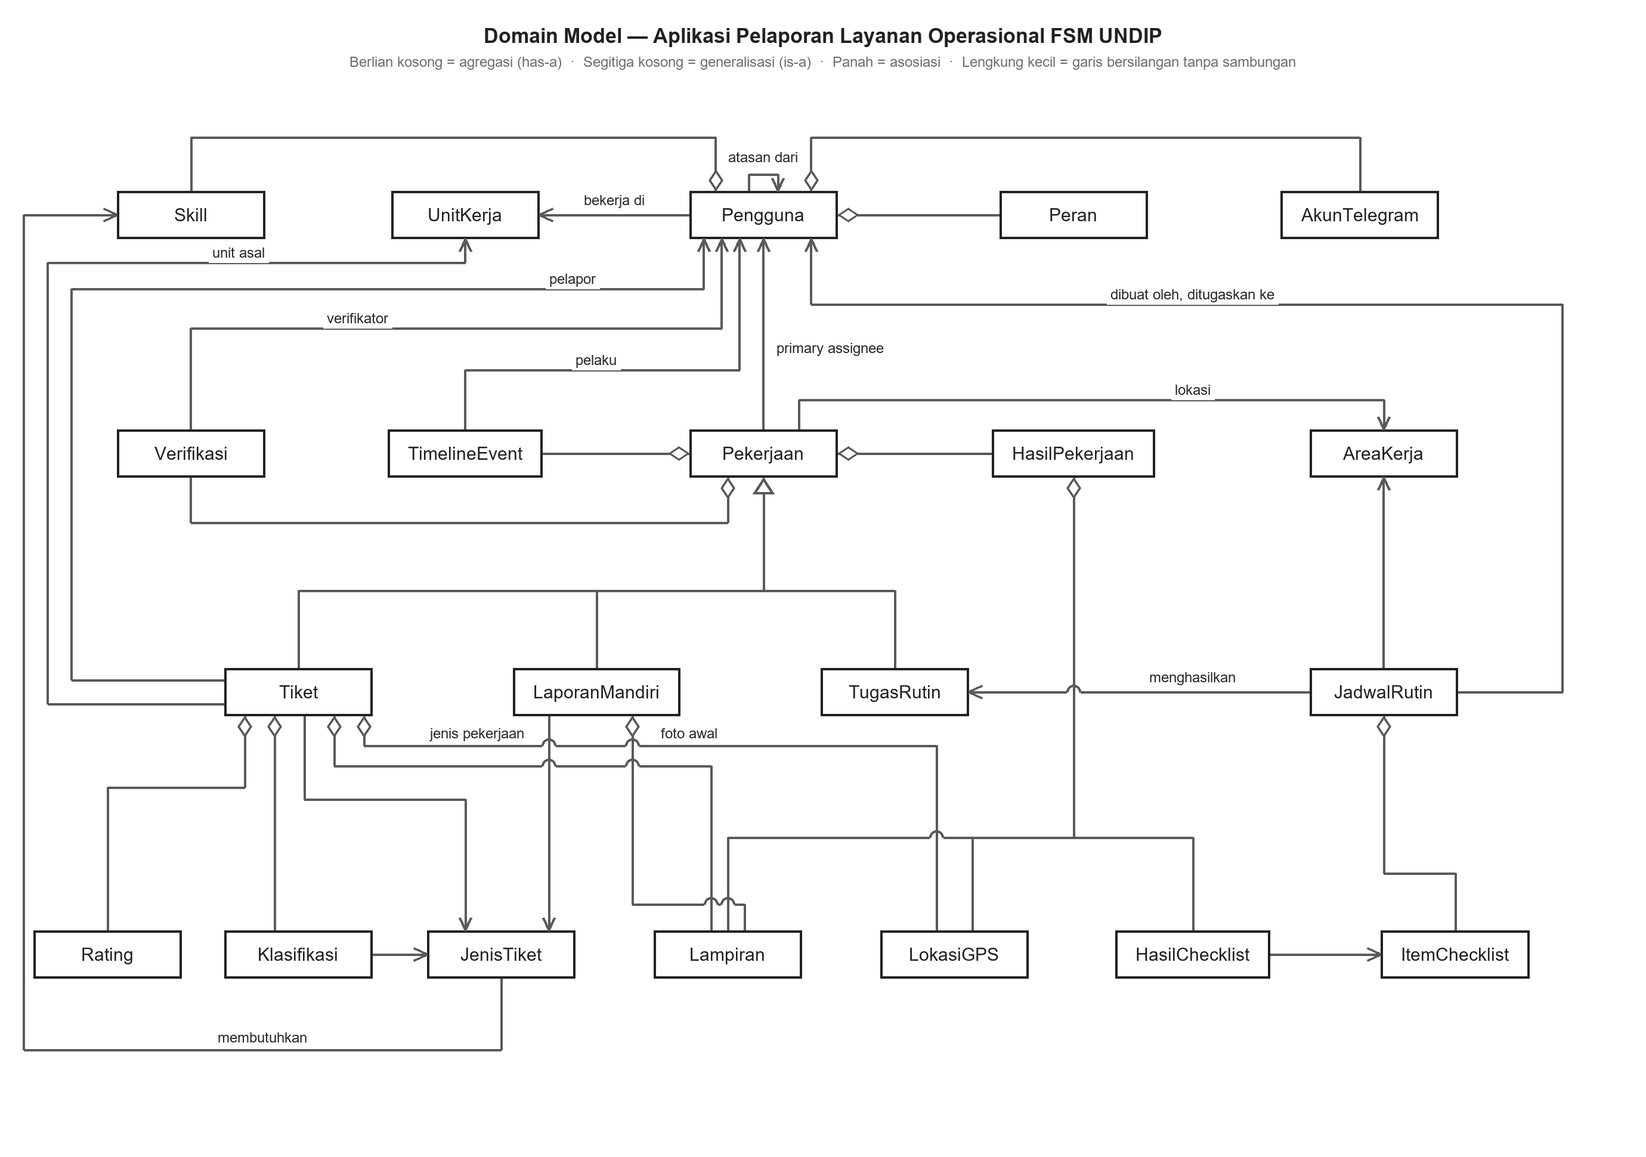
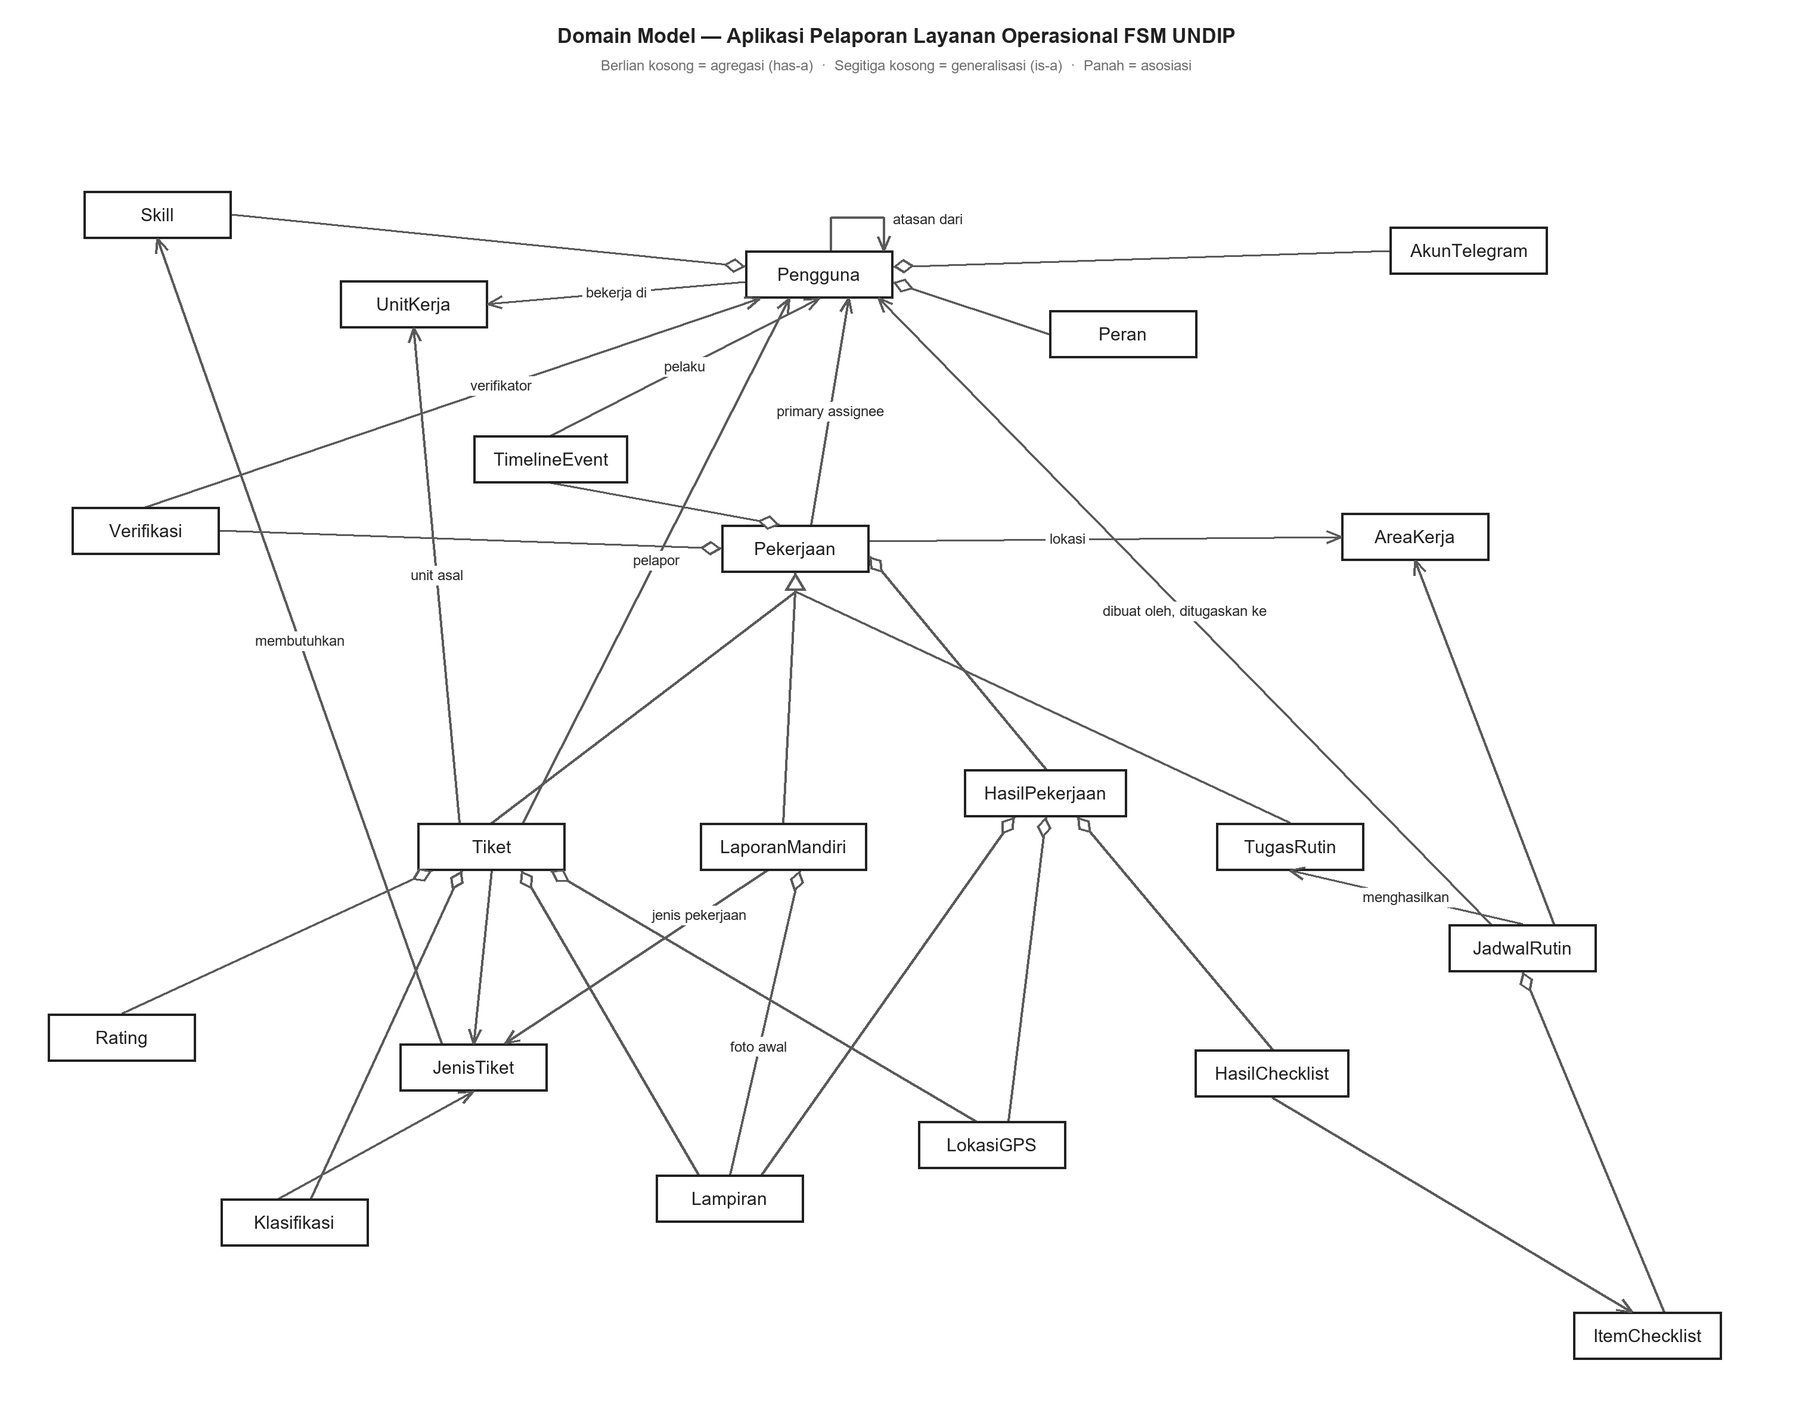
docs(iconix): gambar domain model dengan garis lurus
- Garis lurus seperti contoh Rosenberg Bab 2, semua 34 relasi tetap
- Posisi kotak dicari agar tidak ada garis yang menembus kotak
- Titik sambung tersebar per sisi kotak; label tidak menimpa garis

diff --git a/docs/iconix/domain-model-layout.py b/docs/iconix/domain-model-layout.py
@@ -1,144 +1,172 @@
-"""Gambar domain-model.png dengan tata letak tetap (garis siku, tanpa tumpang tindih).
+"""Gambar domain-model.png dengan garis lurus (gaya Rosenberg & Stephens, 2007, Bab 2).
 
 Isi kelas dan relasi SAMA dengan domain-model.puml (sumber teks untuk agen AI).
-File ini hanya mengatur posisi agar diagram rapi dibaca manusia.
-Jalankan: python domain-model-layout.py  (butuh Pillow; font Arial Windows)
+Posisi kotak (POS) dicari agar tidak ada garis yang menembus kotak dan persilangan sedikit,
+lalu dikunci di sini. Setiap garis punya titik sambung sendiri di sisi kotak.
+Jalankan: python domain-model-layout.py   (butuh Pillow dan font Arial Windows)
 """
-from PIL import Image, ImageDraw, ImageFont
 import math, os
+from functools import lru_cache
+from PIL import Image, ImageDraw, ImageFont
 
-S = 2                      # skala render (ketajaman)
-OY = 70                    # ruang judul
-W, H = 1380, 900
-INK, LINE, LABEL = (33, 33, 33), (90, 90, 90), (40, 40, 40)
-FONT = ImageFont.truetype("arial.ttf", 15 * S)
-FONTL = ImageFont.truetype("arial.ttf", 12 * S)
-FONTT = ImageFont.truetype("arialbd.ttf", 17 * S)
-
-R1, R2, R3, R4 = 110, 310, 510, 730
-POS = {
-    "Skill": (160, R1), "UnitKerja": (390, R1), "Pengguna": (640, R1), "Peran": (900, R1), "AkunTelegram": (1140, R1),
-    "Verifikasi": (160, R2), "TimelineEvent": (390, R2), "Pekerjaan": (640, R2), "HasilPekerjaan": (900, R2), "AreaKerja": (1160, R2),
-    "Tiket": (250, R3), "LaporanMandiri": (500, R3), "TugasRutin": (750, R3), "JadwalRutin": (1160, R3),
-    "Rating": (90, R4), "Klasifikasi": (250, R4), "JenisTiket": (420, R4), "Lampiran": (610, R4),
-    "LokasiGPS": (800, R4), "HasilChecklist": (1000, R4), "ItemChecklist": (1220, R4),
-}
-BH = 40
+S = 2; BH = 40
+FONT = ImageFont.truetype("arial.ttf", 15 * S); FONTL = ImageFont.truetype("arial.ttf", 12 * S); FONTT = ImageFont.truetype("arialbd.ttf", 17 * S)
+@lru_cache(None)
 def bw(n): return max(124, FONT.getlength(n) / S + 34)
-def L(n, dy=0): x, y = POS[n]; return (x - bw(n) / 2, y + dy)
-def R(n, dy=0): x, y = POS[n]; return (x + bw(n) / 2, y + dy)
-def T(n, dx=0): x, y = POS[n]; return (x + dx, y - BH / 2)
-def B(n, dx=0): x, y = POS[n]; return (x + dx, y + BH / 2)
 
-P = "Pengguna"
-# (titik jalur, ujung_awal, ujung_akhir, label, posisi_label)
-# ujung: "dia" = berlian agregasi (sisi keseluruhan), "arr" = panah asosiasi, "tri" = segitiga generalisasi, None
-E = [
-    ([R(P), L("Peran")], "dia", None, None, None),
-    ([T(P, 40), (680, 45), (1140, 45), T("AkunTelegram")], "dia", None, None, None),
-    ([T(P, -40), (600, 45), (160, 45), T("Skill")], "dia", None, None, None),
-    ([L(P), R("UnitKerja")], None, "arr", "bekerja di", (515, 98)),
-    ([T(P, -12), (628, 76), (652, 76), T(P, 12)], None, "arr", "atasan dari", (640, 62)),
-    ([T("Pekerjaan"), B(P)], None, "arr", "primary assignee", (696, 222)),
-    ([T("Verifikasi"), (160, 205), (605, 205), B(P, -35)], None, "arr", "verifikator", (300, 197)),
-    ([T("TimelineEvent"), (390, 240), (620, 240), B(P, -20)], None, "arr", "pelaku", (500, 232)),
-    ([L("Tiket", -10), (60, 500), (60, 172), (590, 172), B(P, -50)], None, "arr", "pelapor", (480, 164)),
-    ([L("Tiket", 10), (40, 520), (40, 150), (390, 150), B("UnitKerja")], None, "arr", "unit asal", (200, 142)),
-    ([R("JadwalRutin"), (1310, 510), (1310, 185), (680, 185), B(P, 40)], None, "arr", "dibuat oleh, ditugaskan ke", (1000, 177)),
-    ([L("Pekerjaan"), R("TimelineEvent")], "dia", None, None, None),
-    ([B("Pekerjaan", -30), (610, 368), (160, 368), B("Verifikasi")], "dia", None, None, None),
-    ([R("Pekerjaan"), L("HasilPekerjaan")], "dia", None, None, None),
-    ([T("Pekerjaan", 30), (670, 265), (1160, 265), T("AreaKerja")], None, "arr", "lokasi", (1000, 257)),
-    ([R("JadwalRutin", 0), R("JadwalRutin", 0)], None, None, None, None),   # placeholder (diabaikan)
-    ([L("JadwalRutin"), R("TugasRutin")], None, "arr", "menghasilkan", (1000, 498)),
-    ([T("JadwalRutin"), B("AreaKerja")], None, "arr", None, None),
-    ([B("JadwalRutin"), (1160, 662), (1220, 662), T("ItemChecklist")], "dia", None, None, None),
-    ([R("HasilChecklist"), L("ItemChecklist")], None, "arr", None, None),
-    ([B("Tiket", 5), (255, 600), (390, 600), T("JenisTiket", -30)], None, "arr", None, None),
-    ([B("Tiket", -20), T("Klasifikasi", -20)], "dia", None, None, None),
-    ([B("Tiket", -45), (205, 590), (90, 590), T("Rating")], "dia", None, None, None),
-    ([B("Tiket", 30), (280, 572), (596, 572), T("Lampiran", -14)], "dia", None, None, None),
-    ([B("Tiket", 55), (305, 555), (785, 555), T("LokasiGPS", -15)], "dia", None, None, None),
-    ([B("LaporanMandiri", -40), T("JenisTiket", 40)], None, "arr", "jenis pekerjaan", (400, 545)),
-    ([B("LaporanMandiri", 30), (530, 688), (624, 688), T("Lampiran", 14)], "dia", None, "foto awal", (578, 545)),
-    ([R("Klasifikasi"), L("JenisTiket")], None, "arr", None, None),
-    ([B("JenisTiket"), (420, 810), (20, 810), (20, 110), L("Skill")], None, "arr", "membutuhkan", (220, 800)),
+# (a, b, jenis, label): 'dia' = berlian di a, 'arr' = panah ke b, 'gen' = b adalah induk
+EDGES = [
+    ("Pengguna", "Peran", "dia", None), ("Pengguna", "AkunTelegram", "dia", None), ("Pengguna", "Skill", "dia", None),
+    ("Pengguna", "UnitKerja", "arr", "bekerja di"),
+    ("Pekerjaan", "Pengguna", "arr", "primary assignee"), ("Verifikasi", "Pengguna", "arr", "verifikator"),
+    ("TimelineEvent", "Pengguna", "arr", "pelaku"), ("Tiket", "Pengguna", "arr", "pelapor"),
+    ("Tiket", "UnitKerja", "arr", "unit asal"), ("JadwalRutin", "Pengguna", "arr", "dibuat oleh, ditugaskan ke"),
+    ("Pekerjaan", "TimelineEvent", "dia", None), ("Pekerjaan", "Verifikasi", "dia", None), ("Pekerjaan", "HasilPekerjaan", "dia", None),
+    ("Pekerjaan", "AreaKerja", "arr", "lokasi"),
+    ("Tiket", "Pekerjaan", "gen", None), ("LaporanMandiri", "Pekerjaan", "gen", None), ("TugasRutin", "Pekerjaan", "gen", None),
+    ("JadwalRutin", "TugasRutin", "arr", "menghasilkan"), ("JadwalRutin", "AreaKerja", "arr", None),
+    ("JadwalRutin", "ItemChecklist", "dia", None), ("HasilChecklist", "ItemChecklist", "arr", None),
+    ("Tiket", "JenisTiket", "arr", None), ("Tiket", "Klasifikasi", "dia", None), ("Tiket", "Rating", "dia", None),
+    ("Tiket", "Lampiran", "dia", None), ("Tiket", "LokasiGPS", "dia", None),
+    ("LaporanMandiri", "JenisTiket", "arr", "jenis pekerjaan"), ("LaporanMandiri", "Lampiran", "dia", "foto awal"),
+    ("Klasifikasi", "JenisTiket", "arr", None), ("JenisTiket", "Skill", "arr", "membutuhkan"),
+    ("HasilPekerjaan", "Lampiran", "dia", None), ("HasilPekerjaan", "LokasiGPS", "dia", None), ("HasilPekerjaan", "HasilChecklist", "dia", None),
 ]
-E = [e for e in E if e[0][0] != e[0][1]]
-# agregasi HasilPekerjaan (satu batang ke tiga bagian)
-HPBUS = 632
-E += [([B("HasilPekerjaan"), (900, HPBUS), (610, HPBUS), T("Lampiran")], "dia", None, None, None),
-      ([(815, HPBUS), T("LokasiGPS", 15)], None, None, None, None),
-      ([(900, HPBUS), (1000, HPBUS), T("HasilChecklist")], None, None, None, None)]
-# generalisasi: satu segitiga di Pekerjaan, batang ke tiga turunan
-GEN = (B("Pekerjaan"), 425, ["Tiket", "LaporanMandiri", "TugasRutin"])
 
-img = Image.new("RGB", (W * S, (H + OY) * S), "white")
-d = ImageDraw.Draw(img)
-def sp(p): return (p[0] * S, (p[1] + OY) * S)
+POS = {
+    "Skill": (125, 60),
+    "AkunTelegram": (1225, 90),
+    "Pengguna": (680, 110),
+    "UnitKerja": (340, 135),
+    "Peran": (935, 160),
+    "TimelineEvent": (455, 265),
+    "Verifikasi": (115, 325),
+    "AreaKerja": (1180, 330),
+    "Pekerjaan": (660, 340),
+    "HasilPekerjaan": (870, 545),
+    "Tiket": (405, 590),
+    "LaporanMandiri": (650, 590),
+    "TugasRutin": (1075, 590),
+    "JadwalRutin": (1270, 675),
+    "Rating": (95, 750),
+    "JenisTiket": (390, 775),
+    "HasilChecklist": (1060, 780),
+    "LokasiGPS": (825, 840),
+    "Lampiran": (605, 885),
+    "Klasifikasi": (240, 905),
+    "ItemChecklist": (1375, 1000),
+}
 
-# kumpulkan segmen vertikal (untuk lompatan pada garis horizontal)
-vert = []
-for pts, *_ in E:
-    for a, b in zip(pts, pts[1:]):
-        if abs(a[0] - b[0]) < 0.5: vert.append((a[0], min(a[1], b[1]), max(a[1], b[1]), id(pts)))
-gx, gy = GEN[0]
-vert.append((gx, gy, GEN[1], -1))
-for c in GEN[2]: vert.append((POS[c][0], GEN[1], T(c)[1], -1))
+def seg_rect(p, q, r):
+    (x0, y0), (x1, y1) = p, q; xa, ya, xb, yb = r
+    # Liang-Barsky
+    dx, dy = x1 - x0, y1 - y0; t0, t1 = 0.0, 1.0
+    for pp, qq in ((-dx, x0 - xa), (dx, xb - x0), (-dy, y0 - ya), (dy, yb - y0)):
+        if pp == 0:
+            if qq < 0: return False
+        else:
+            t = qq / pp
+            if pp < 0: t0 = max(t0, t)
+            else: t1 = min(t1, t)
+    return t0 < t1
 
-def hline(a, b, owner):
-    y = a[1]; x0, x1 = sorted((a[0], b[0]))
-    hops = sorted(v[0] for v in vert if v[3] != owner and x0 + 6 < v[0] < x1 - 6 and v[1] + 2 < y < v[2] - 2)
-    xs = x0
-    for hx in hops:
-        d.line([sp((xs, y)), sp((hx - 6, y))], fill=LINE, width=2 * S // 1)
-        d.arc([sp((hx - 6, y - 6)), sp((hx + 6, y + 6))], 180, 360, fill=LINE, width=2 * S // 1)
-        xs = hx + 6
-    d.line([sp((xs, y)), sp((x1, y))], fill=LINE, width=2 * S // 1)
+def cross(p, q, r, s):
+    def o(a, b, c): return (b[0] - a[0]) * (c[1] - a[1]) - (b[1] - a[1]) * (c[0] - a[0])
+    d1, d2, d3, d4 = o(p, q, r), o(p, q, s), o(r, s, p), o(r, s, q)
+    return (d1 * d2 < 0) and (d3 * d4 < 0)
 
-def poly(pts, owner):
-    for a, b in zip(pts, pts[1:]):
-        if abs(a[1] - b[1]) < 0.5 and abs(a[0] - b[0]) > 0.5: hline(a, b, owner)
-        else: d.line([sp(a), sp(b)], fill=LINE, width=2 * S // 1)
+FORCE = {("Pekerjaan", "HasilPekerjaan"): "R", ("HasilPekerjaan", "Pekerjaan"): "T"}
+def side_of(n, pos, tx, ty, other=None):
+    if (n, other) in FORCE: return FORCE[(n, other)]
+    x, y = pos[n]; w, h = bw(n) / 2, BH / 2; dx, dy = tx - x, ty - y
+    if abs(dx) * h > abs(dy) * w: return "R" if dx > 0 else "L"
+    return "B" if dy > 0 else "T"
 
-def head(tip, frm, kind):
-    ang = math.atan2(tip[1] - frm[1], tip[0] - frm[0])
-    ux, uy = math.cos(ang), math.sin(ang); px, py = -uy, ux
-    if kind == "arr":
-        p1 = (tip[0] - 11 * ux + 5 * px, tip[1] - 11 * uy + 5 * py); p2 = (tip[0] - 11 * ux - 5 * px, tip[1] - 11 * uy - 5 * py)
-        d.line([sp(p1), sp(tip), sp(p2)], fill=LINE, width=2 * S)
-    elif kind == "dia":
-        m = (tip[0] - 9 * ux, tip[1] - 9 * uy); e = (tip[0] - 18 * ux, tip[1] - 18 * uy)
-        d.polygon([sp(tip), sp((m[0] + 6 * px, m[1] + 6 * py)), sp(e), sp((m[0] - 6 * px, m[1] - 6 * py))], fill="white", outline=LINE, width=2 * S)
-    elif kind == "tri":
-        b1 = (tip[0] - 14 * ux + 9 * px, tip[1] - 14 * uy + 9 * py); b2 = (tip[0] - 14 * ux - 9 * px, tip[1] - 14 * uy - 9 * py)
-        d.polygon([sp(tip), sp(b1), sp(b2)], fill="white", outline=LINE, width=2 * S)
+def anchors(pos):
+    """kembalikan list (p0, p1) per edge dengan titik sambung tersebar."""
+    ends = {}                                     # (node, side) -> list of (key_sort, edge_idx, which)
+    gen_pt = {}
+    for i, (a, b, k, _) in enumerate(EDGES):
+        if k == "gen":
+            t = (pos[b][0], pos[b][1] + BH / 2 + 16); gen_pt[i] = t
+            sa = "T"; ends.setdefault((a, sa), []).append((t[0], i, 0)); continue
+        sa = side_of(a, pos, *pos[b], other=b); sb = side_of(b, pos, *pos[a], other=a)
+        ka = pos[b][0] if sa in "TB" else pos[b][1]; kb = pos[a][0] if sb in "TB" else pos[a][1]
+        ends.setdefault((a, sa), []).append((ka, i, 0)); ends.setdefault((b, sb), []).append((kb, i, 1))
+    pts = {}
+    for (n, sd), lst in ends.items():
+        lst.sort(); x, y = pos[n]; w, h = bw(n) / 2, BH / 2; m = len(lst)
+        for j, (_, i, which) in enumerate(lst):
+            f = (j + 1) / (m + 1)
+            if sd in "TB":
+                span = min(2 * w - 24, 26 * (m - 1) + 1) if m > 1 else 0
+                px = x - span / 2 + (span * j / (m - 1) if m > 1 else 0); py = y - h if sd == "T" else y + h
+            else:
+                span = min(2 * h - 12, 12 * (m - 1) + 1) if m > 1 else 0
+                py = y - span / 2 + (span * j / (m - 1) if m > 1 else 0); px = x - w if sd == "L" else x + w
+            pts[(i, which)] = (px, py)
+    out = []
+    for i, (a, b, k, _) in enumerate(EDGES):
+        out.append((pts[(i, 0)], gen_pt[i]) if k == "gen" else (pts[(i, 0)], pts[(i, 1)]))
+    return out
 
-# garis
-for pts, s0, s1, lab, lp in E: poly(pts, id(pts))
-gtip = GEN[0]; gbase = (gtip[0], gtip[1] + 14)
-d.line([sp(gbase), sp((gx, GEN[1]))], fill=LINE, width=2 * S)
-xs = [POS[c][0] for c in GEN[2]]
-hline((min(xs), GEN[1]), (max(xs), GEN[1]), -1)
-for c in GEN[2]: d.line([sp((POS[c][0], GEN[1])), sp(T(c))], fill=LINE, width=2 * S)
-# kotak kelas
-for n, (x, y) in POS.items():
-    w = bw(n)
-    d.rectangle([sp((x - w / 2, y - BH / 2)), sp((x + w / 2, y + BH / 2))], fill="white", outline=INK, width=2 * S)
-    d.text(sp((x, y)), n, font=FONT, fill=INK, anchor="mm")
-# ujung garis (di atas kotak)
-for pts, s0, s1, lab, lp in E:
-    if s0: head(pts[0], pts[1], s0)
-    if s1: head(pts[-1], pts[-2], s1)
-head(gtip, gbase, "tri")
-# label
-for pts, s0, s1, lab, lp in E:
-    if lab:
-        tw = FONTL.getlength(lab) / S
-        d.rectangle([sp((lp[0] - tw / 2 - 3, lp[1] - 8)), sp((lp[0] + tw / 2 + 3, lp[1] + 8))], fill="white")
-        d.text(sp(lp), lab, font=FONTL, fill=LABEL, anchor="mm")
-d.text(sp((W / 2, -40)), "Domain Model — Aplikasi Pelaporan Layanan Operasional FSM UNDIP", font=FONTT, fill=INK, anchor="mm")
-d.text(sp((W / 2, -18)), "Berlian kosong = agregasi (has-a)  ·  Segitiga kosong = generalisasi (is-a)  ·  Panah = asosiasi  ·  Lengkung kecil = garis bersilangan tanpa sambungan",
-       font=FONTL, fill=(110, 110, 110), anchor="mm")
-out = os.path.join(os.path.dirname(os.path.abspath(__file__)), "domain-model.png")
-img.save(out); print(out, img.size)
+def rect(n, pos, pad):
+    x, y = pos[n]; w = bw(n); return (x - w / 2 - pad, y - BH / 2 - pad, x + w / 2 + pad, y + BH / 2 + pad)
+def ovl(r1, r2): return not (r1[2] < r2[0] or r1[0] > r2[2] or r1[3] < r2[1] or r1[1] > r2[3])
+
+def render(pos, out):
+    INK, LINE, LAB = (33, 33, 33), (90, 90, 90), (40, 40, 40)
+    minx = min(x - bw(n) / 2 for n, (x, y) in pos.items()) - 40; miny = min(y for x, y in pos.values()) - 110
+    OX, OY = -minx, -miny + 70
+    W = int(max(x + bw(n) / 2 for n, (x, y) in pos.items()) + OX + 60); H = int(max(y for x, y in pos.values()) + OY + 70)
+    img = Image.new("RGB", (W * S, H * S), "white"); d = ImageDraw.Draw(img)
+    def sp(p): return ((p[0] + OX) * S, (p[1] + OY) * S)
+    def ln(a, b): d.line([sp(a), sp(b)], fill=LINE, width=2 * S)
+    sg = anchors(pos)
+    for (a, b, k, lab), (p, q) in zip(EDGES, sg): ln(p, q)
+    pk = pos["Pekerjaan"]; tip = (pk[0], pk[1] + BH / 2); base = (pk[0], pk[1] + BH / 2 + 16); ln(base, tip)
+    px_, py_ = pos["Pengguna"]; w = bw("Pengguna") / 2
+    loop = [(px_ + 10, py_ - BH / 2), (px_ + 10, py_ - BH / 2 - 28), (px_ + 54, py_ - BH / 2 - 28), (px_ + 54, py_ - BH / 2)]
+    for a_, b_ in zip(loop, loop[1:]): ln(a_, b_)
+    for n, (x, y) in pos.items():
+        ww = bw(n); d.rectangle([sp((x - ww / 2, y - BH / 2)), sp((x + ww / 2, y + BH / 2))], fill="white", outline=INK, width=2 * S)
+        d.text(sp((x, y)), n, font=FONT, fill=INK, anchor="mm")
+    def head(tip, frm, kind):
+        ang = math.atan2(tip[1] - frm[1], tip[0] - frm[0]); ux, uy = math.cos(ang), math.sin(ang); px, py = -uy, ux
+        if kind == "arr":
+            ln((tip[0] - 12 * ux + 5 * px, tip[1] - 12 * uy + 5 * py), tip); ln((tip[0] - 12 * ux - 5 * px, tip[1] - 12 * uy - 5 * py), tip)
+        elif kind == "dia":
+            m = (tip[0] - 9 * ux, tip[1] - 9 * uy); e = (tip[0] - 18 * ux, tip[1] - 18 * uy)
+            d.polygon([sp(tip), sp((m[0] + 6 * px, m[1] + 6 * py)), sp(e), sp((m[0] - 6 * px, m[1] - 6 * py))], fill="white", outline=LINE, width=2 * S)
+        elif kind == "tri":
+            b1 = (tip[0] - 15 * ux + 9 * px, tip[1] - 15 * uy + 9 * py); b2 = (tip[0] - 15 * ux - 9 * px, tip[1] - 15 * uy - 9 * py)
+            d.polygon([sp(tip), sp(b1), sp(b2)], fill="white", outline=LINE, width=2 * S)
+    for (a, b, k, lab), (p, q) in zip(EDGES, sg):
+        if k == "dia": head(p, q, "dia")
+        if k == "arr": head(q, p, "arr")
+    head(tip, base, "tri"); head(loop[-1], loop[-2], "arr")
+    boxes = [rect(n, pos, 3) for n in pos]; placed = []
+    def ok(r, own):
+        if any(ovl(r, b) for b in boxes + placed): return False
+        return not any(seg_rect(p, q, r) for j, (p, q) in enumerate(sg) if j != own)
+    for i, ((a, b, k, lab), (p, q)) in enumerate(zip(EDGES, sg)):
+        if not lab: continue
+        tw = FONTL.getlength(lab) / S; best = None
+        for t in (0.5, 0.42, 0.58, 0.34, 0.66, 0.26, 0.74, 0.2, 0.8):
+            cx, cy = p[0] + (q[0] - p[0]) * t, p[1] + (q[1] - p[1]) * t
+            r = (cx - tw / 2 - 3, cy - 8, cx + tw / 2 + 3, cy + 8)
+            if ok(r, i): best = (cx, cy, r); break
+            if best is None: best = (cx, cy, r)
+        cx, cy, r = best; placed.append(r)
+        d.rectangle([sp((r[0], r[1])), sp((r[2], r[3]))], fill="white"); d.text(sp((cx, cy)), lab, font=FONTL, fill=LAB, anchor="mm")
+    d.text(sp((loop[2][0] + 8, loop[2][1] + 2)), "atasan dari", font=FONTL, fill=LAB, anchor="lm")
+    d.text(((W / 2) * S, 30 * S), "Domain Model — Aplikasi Pelaporan Layanan Operasional FSM UNDIP", font=FONTT, fill=INK, anchor="mm")
+    d.text(((W / 2) * S, 55 * S), "Berlian kosong = agregasi (has-a)  ·  Segitiga kosong = generalisasi (is-a)  ·  Panah = asosiasi",
+           font=FONTL, fill=(110, 110, 110), anchor="mm")
+    img.save(out)
+
+
+if __name__ == "__main__":
+    out = os.path.join(os.path.dirname(os.path.abspath(__file__)), "domain-model.png")
+    render({k: tuple(v) for k, v in POS.items()}, out)
+    print(out)

diff --git a/docs/iconix/domain-model.md b/docs/iconix/domain-model.md
@@ -2,7 +2,7 @@
 
 **Tahap ICONIX:** Requirements (Subbab 3.2.2, aktivitas 3). Belum melalui Milestone 1: Requirements Review.
 **Sumber:** kata benda pada teks use case [`docs/requirements/use-case-inti.md`](../requirements/use-case-inti.md) (awalnya draf 2, diselaraskan sampai draf 3.6).
-**Diagram:** [`domain-model.puml`](domain-model.puml) adalah sumber teks (isi kelas dan relasi, juga untuk dibaca agen AI). [`domain-model.png`](domain-model.png) digambar dengan tata letak tetap oleh [`domain-model-layout.py`](domain-model-layout.py) supaya garis tidak saling menimpa. Isi keduanya harus selalu sama; bila relasi berubah, perbarui keduanya.
+**Diagram:** [`domain-model.puml`](domain-model.puml) adalah sumber teks (isi kelas dan relasi, juga untuk dibaca agen AI). [`domain-model.png`](domain-model.png) digambar dengan garis lurus dan posisi tetap oleh [`domain-model-layout.py`](domain-model-layout.py) supaya tidak ada garis yang menembus kotak atau label yang tertimpa. Isi keduanya harus selalu sama; bila relasi berubah, perbarui keduanya.
 
 ![Domain model awal](domain-model.png)
 
@@ -75,4 +75,4 @@ Atribut, operasi, dan multiplisitas ditambahkan pada tahap robustness analysis d
 | 5 | Atasan yang ditunjuk (K-13) | Dimodelkan sebagai salah satu `Peran`. | — |
 | 6 | Cara penggambaran | Mengikuti pedoman Rosenberg & Stephens (2007, Bab 2): tanpa multiplisitas, tanpa kelas abstrak, dan tanpa kotak paket. | `Pekerjaan` menjadi kelas biasa. |
 | 7 | Lokasi dan foto awal (15 Nov 2026, setelah K-18 dan K-29) | Lokasi digambar sekali sebagai `Pekerjaan → AreaKerja` karena berlaku untuk Tiket, Laporan Mandiri, dan Tugas Rutin (generalisasi). Foto awal Laporan Mandiri digambar sebagai `LaporanMandiri ◇ Lampiran`. | Menggantikan relasi lokasi terpisah pada Tiket dan Laporan Mandiri. |
-| 8 | Kerapian diagram | Tata letak tetap empat baris: organisasi dan pengguna, pekerjaan, jenis pekerjaan, lalu kelas pendukung. Semua garis siku, dan persilangan ditandai lengkung kecil (`domain-model-layout.py`). Peran "dibuat oleh" dan "petugas ditugaskan" dari JadwalRutin ke Pengguna digambar dalam satu garis berlabel dua. | Isi kelas tidak berubah. |
+| 8 | Kerapian diagram | Garis lurus seperti contoh Rosenberg & Stephens (2007, Figure 2-1 dan 2-7), dengan semua relasi tetap ditampilkan. Posisi kotak dicari agar tidak ada garis yang menembus kotak (13 persilangan tersisa), setiap garis punya titik sambung sendiri, dan label tidak menimpa garis lain (`domain-model-layout.py`). | Isi kelas tidak berubah. |
